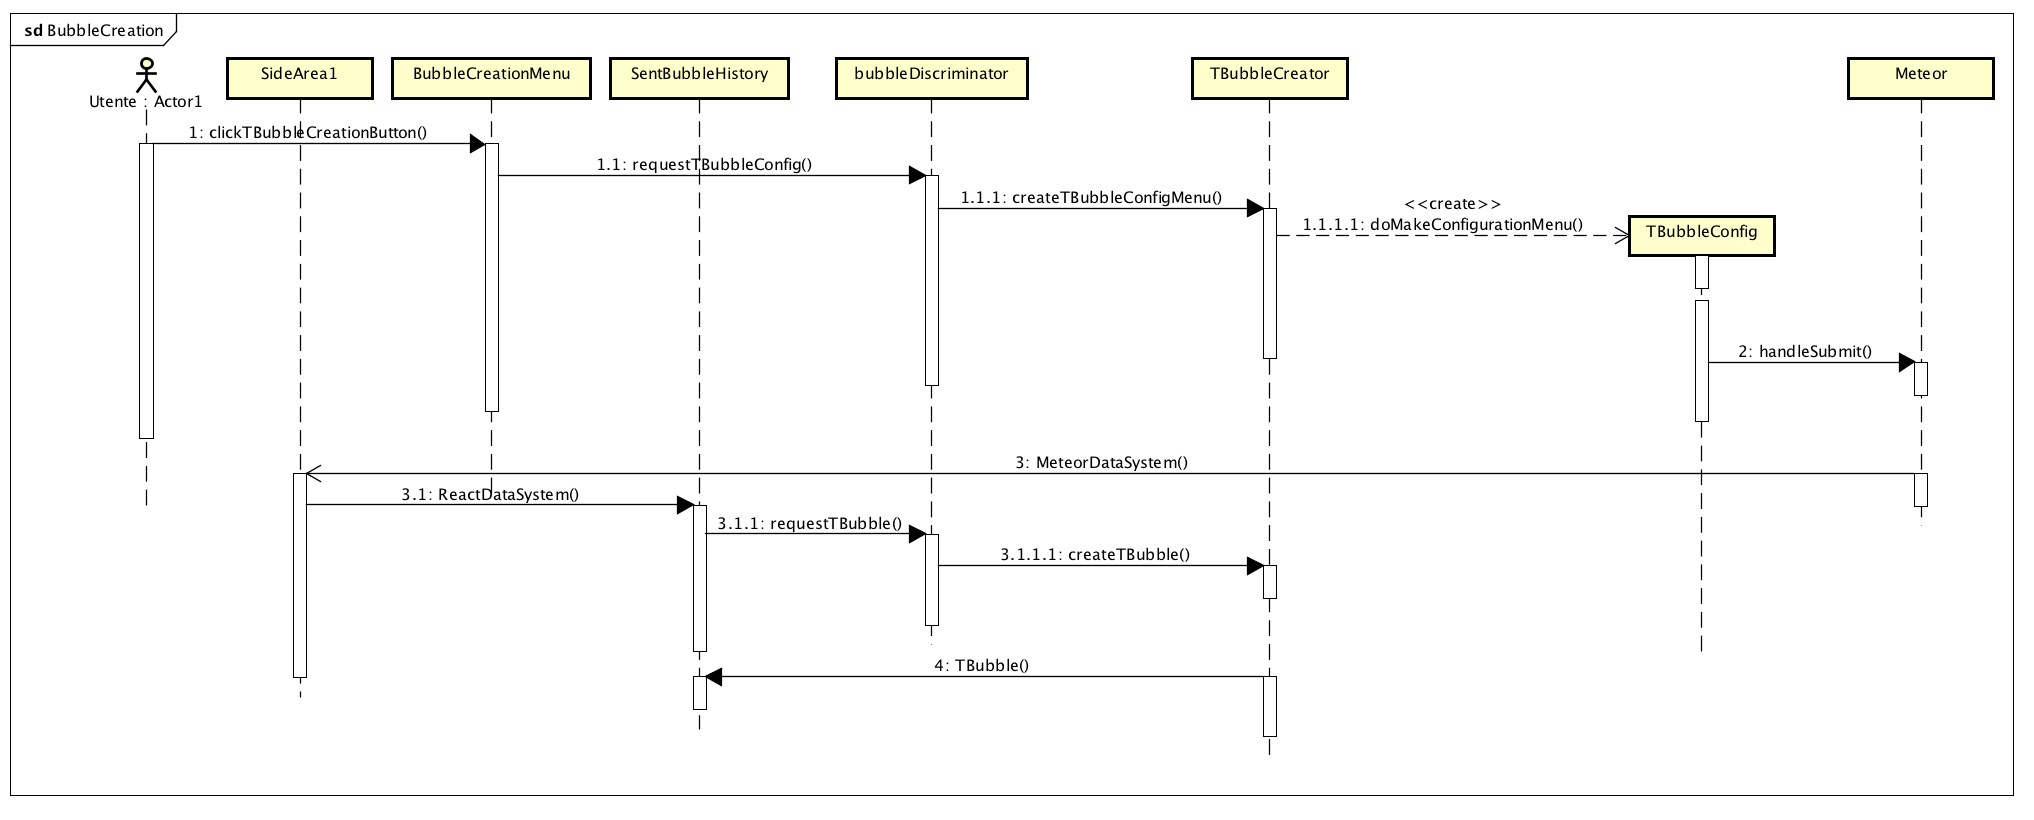
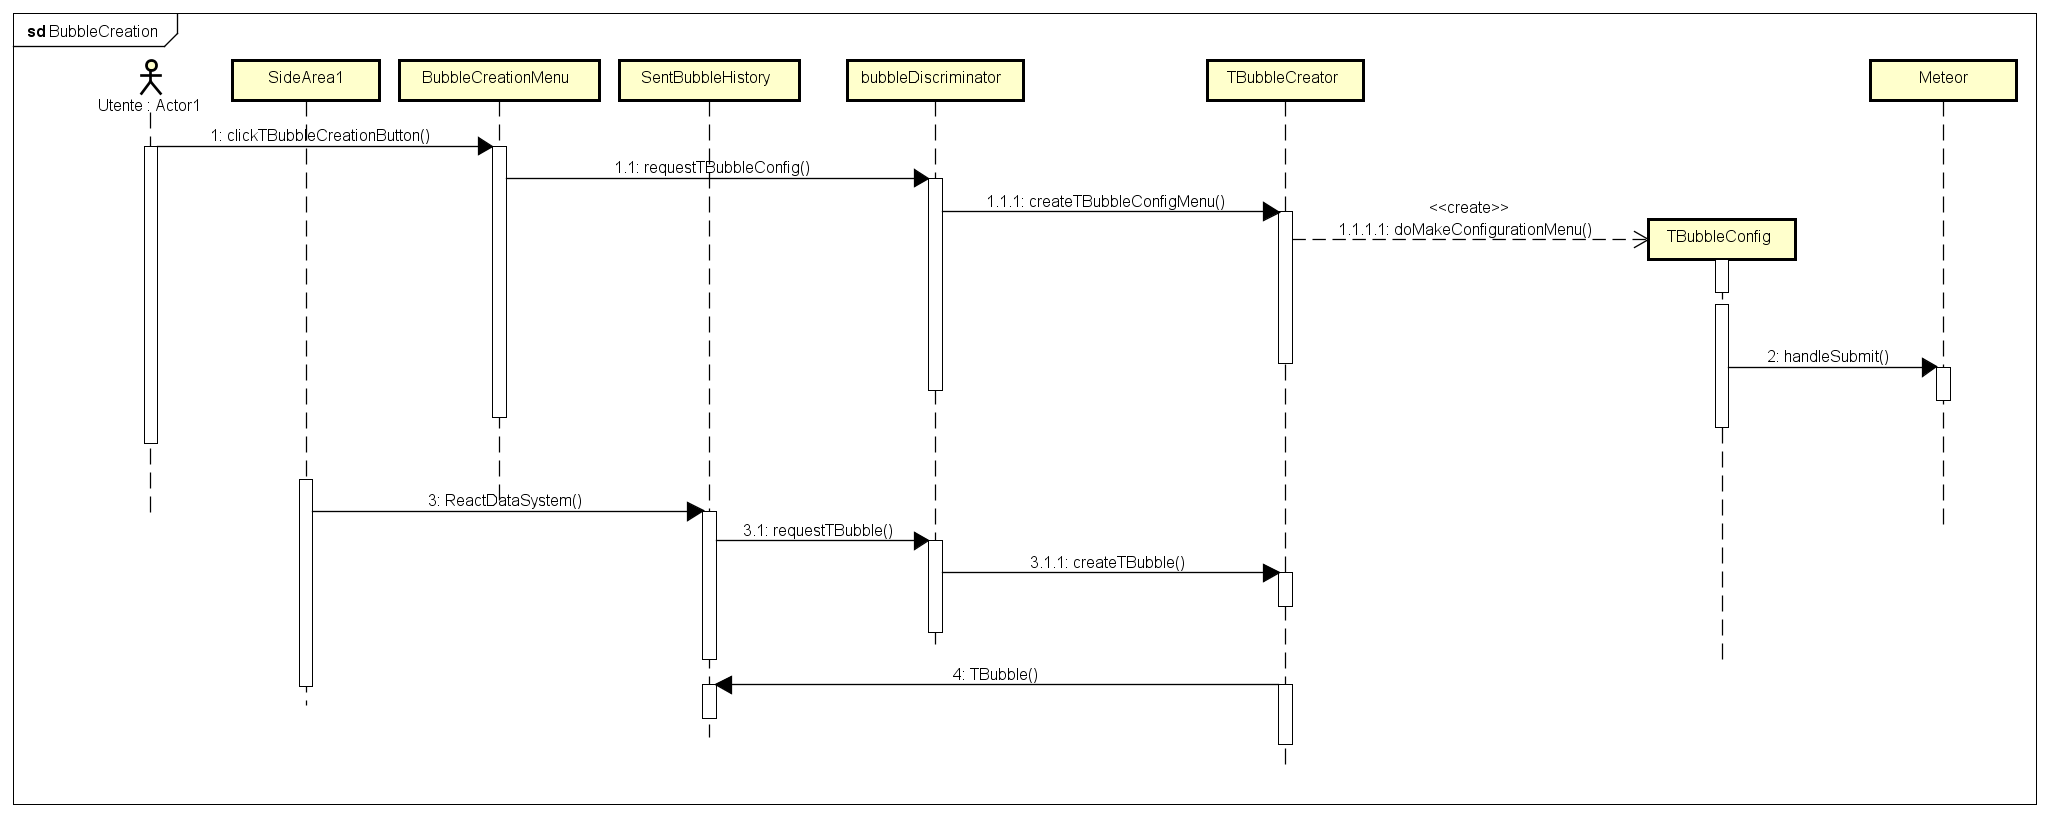
diagrammi di flusso

diff --git a/3-RQ/Esterni/DdP/contenuto.tex b/3-RQ/Esterni/DdP/contenuto.tex
@@ -538,7 +538,8 @@ invia la richiesta per 	accedere al menù di creazione. La richiesta
 passa per il bubbleDiscriminator che capisce la 	tipologia di bolla
 e passa la richiesta al TBubbleCreator e TBubbleConfig che
 costruiscono il 	menù di configurazione adatto.  
-Una volta compilati i campi la richiesta torna al bubbleDiscriminator e al TBubbleCreator che 	creano la bolla aggiungendola alla SentBubbleHistory. \\
+Dopodichè SideArea1 si aggiorna automaticamente (tramite il meccanismo di aggiornamento di Minimongo contenuto in Meteor) e
+una volta compilati i campi la richiesta torna al bubbleDiscriminator e al TBubbleCreator che 	creano la bolla aggiungendola alla SentBubbleHistory. \\
 
 \subsection{Cancellazione Bolla}
 
